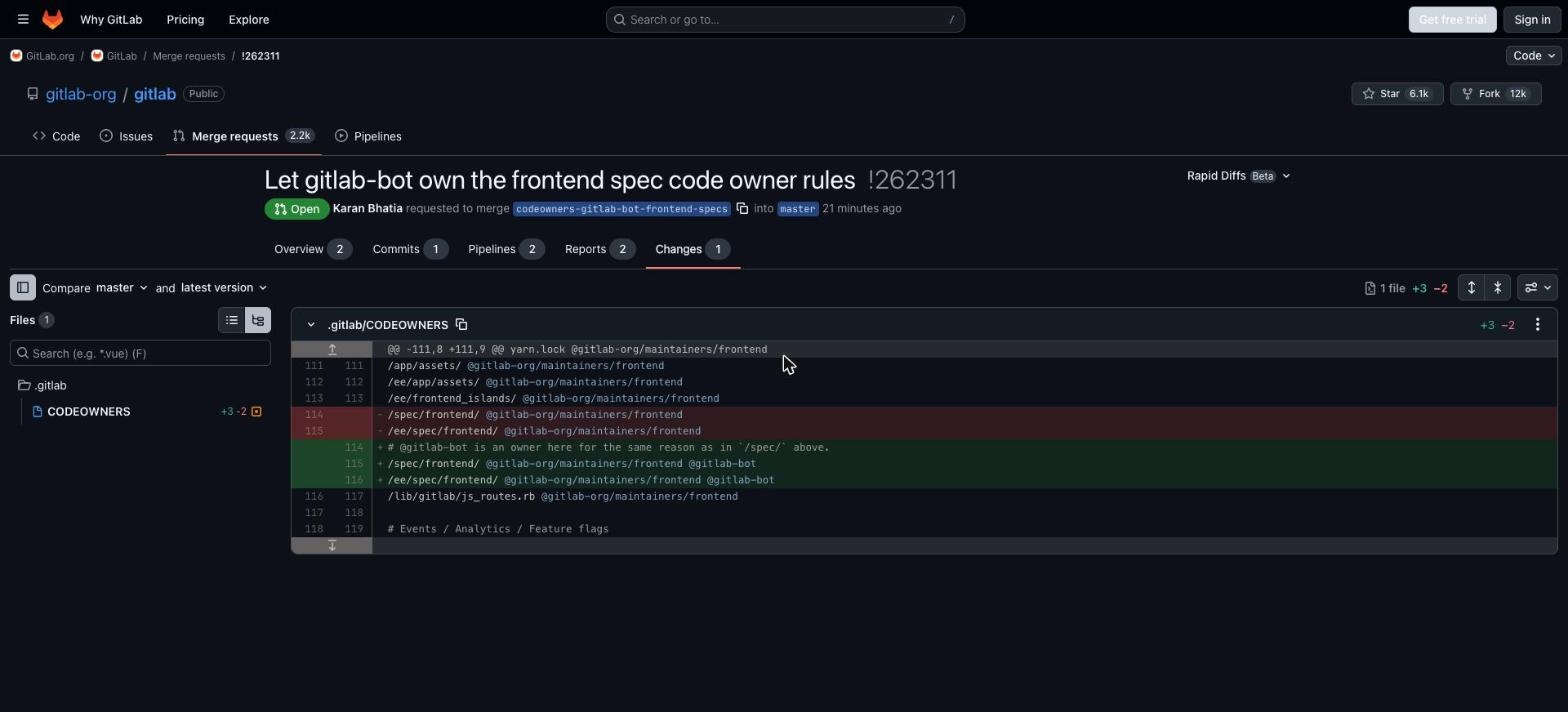
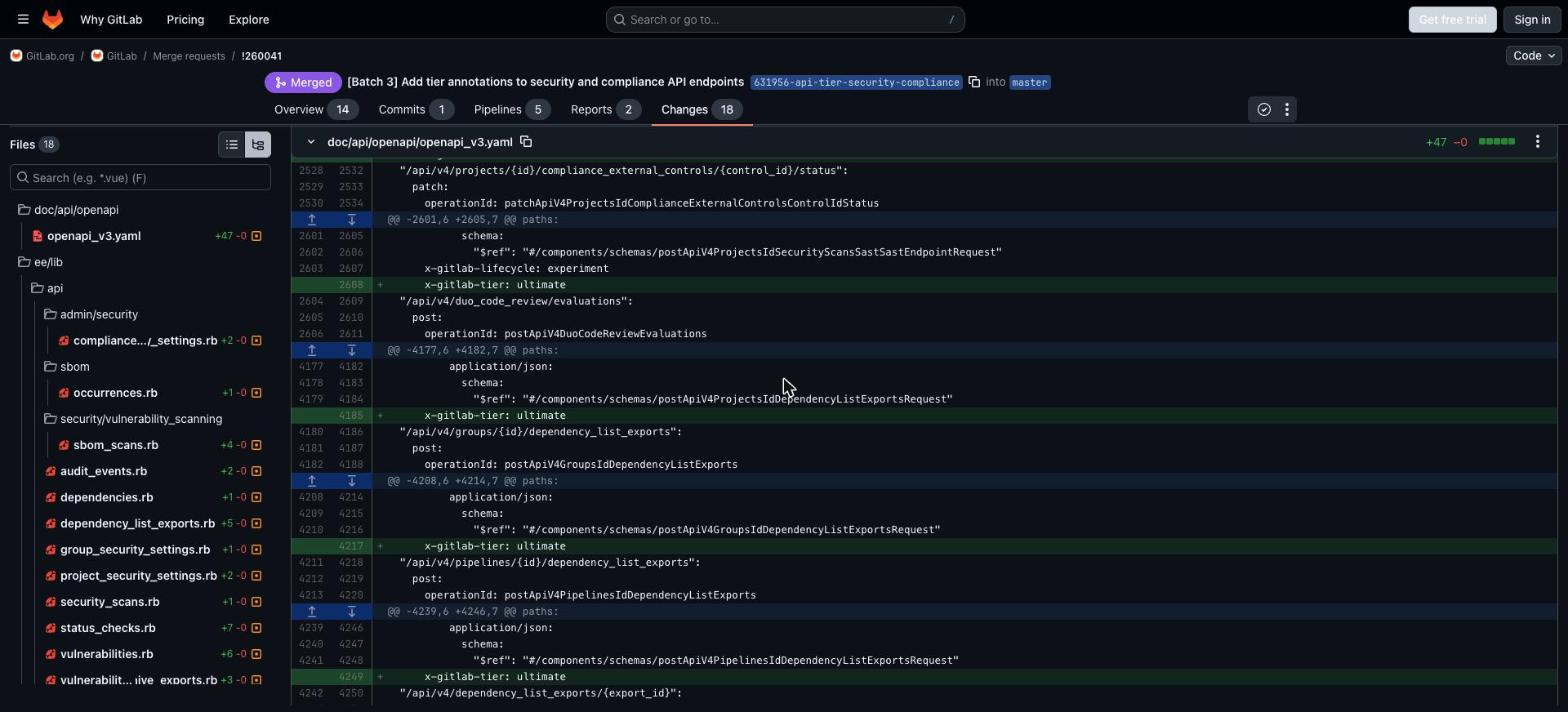
chore: LabHub release setup; diffs match github.com dark exactly
- Rename to LabHub (manifest, popup, options, package.json, README); MIT license
- CI: prettier, lint, typecheck, tests and a packaged zip on every push/PR
- Release: tag v* -> checks, version guard, zip attached to a GitHub release
- Dependabot (npm + actions), issue/PR templates, CONTRIBUTING, SECURITY, CHANGELOG
- Diffs: values read from github.com's --diffBlob-* tokens: blue hunk band with navy
  expander cell, #f851491a deletions, #f0f6fc code text, muted line numbers, 12px code,
  GitHub dark syntax colors on GitLab's Rouge classes, GitHub diffstat square colors

Changed region(s): [[0.0, 0.0618, 1.0, 0.9888], [0.7812, 0.0927, 1.0, 0.1854], [0.875, 0.3708, 1.0, 0.4635]]

diff --git a/src/features/github-theme/theme.css b/src/features/github-theme/theme.css
@@ -176,15 +176,15 @@ html.gl-dark:root {
   --bgl-diff-add: #2ea04326;
   --bgl-diff-add-num: #3fb9504d;
   --bgl-diff-add-word: #2ea04366;
-  --bgl-diff-del: #f8514926;
+  --bgl-diff-del: #f851491a;
   --bgl-diff-del-num: #f851494d;
   --bgl-diff-del-word: #f8514966;
   --bgl-counter-bg: #2f3742;
   --bgl-success-fg: #3fb950;
   --bgl-danger-fg: #f85149;
-  --bgl-diffstat-add: #2ea043;
+  --bgl-diffstat-add: #238636;
   --bgl-diffstat-del: #da3633;
-  --bgl-diffstat-neutral: #3d444d;
+  --bgl-diffstat-neutral: #656c7633;
 }
 
 /* ---- Layer 2: semantic roles -------------------------------------------------------------- */
@@ -580,4 +580,112 @@ html:root .rd-stats-added {
 }
 html:root .rd-stats-removed {
   color: var(--bgl-danger-fg);
+}
+
+/* ---- Diffs, matched to github.com's dark diff (values read from its --diffBlob-* tokens) ---- */
+
+html.gl-dark:root {
+  --bgl-diff-hunk-bg: #388bfd1a;
+  --bgl-diff-hunk-fg: #9198a1;
+  --bgl-diff-hunk-num-bg: #0c2d6b;
+}
+html:root {
+  --bgl-diff-hunk-bg: #ddf4ff;
+  --bgl-diff-hunk-fg: #59636e;
+  --bgl-diff-hunk-num-bg: #b6e3ff;
+}
+
+/* GitHub's 12px / 20px code, primary-colored text, muted line numbers. */
+html:root .rd-text-view-root,
+html:root .diff-content .diff-table {
+  font-size: 12px;
+}
+html:root .rd-line-content,
+html:root .diff-content .line_content {
+  color: var(--bgl-fg);
+}
+html:root .rd-line-number,
+html:root .diff-content .diff-line-num {
+  color: var(--bgl-fg-muted);
+}
+html:root .rd-line-number[data-change],
+html:root .diff-content .diff-line-num.new,
+html:root .diff-content .diff-line-num.old {
+  color: var(--bgl-fg);
+}
+
+/* Hunk headers ("@@ -36,6 +36,14 @@"): GitHub's blue band with a navy expander cell. */
+html:root tr.rd-hunk-header {
+  background-color: var(--bgl-diff-hunk-bg);
+  color: var(--bgl-diff-hunk-fg);
+}
+html:root tr.rd-hunk-header > .rd-hunk-header-content {
+  background-color: transparent;
+  color: var(--bgl-diff-hunk-fg);
+}
+html:root tr.rd-hunk-header > .rd-hunk-header-buttons {
+  background-color: var(--bgl-diff-hunk-num-bg);
+  color: var(--bgl-fg);
+}
+html:root tr.rd-hunk-header .rd-expand-lines-button {
+  background-color: transparent;
+  color: var(--bgl-fg-muted);
+}
+html:root tr.rd-hunk-header .rd-expand-lines-button:hover {
+  background-color: #1f6feb;
+  color: #ffffff;
+}
+html:root .diff-content .line_holder.match .line_content {
+  background-color: var(--bgl-diff-hunk-bg);
+  color: var(--bgl-diff-hunk-fg);
+}
+html:root .diff-content .line_holder.match .diff-line-num {
+  background-color: var(--bgl-diff-hunk-num-bg);
+}
+
+/* Syntax colors: GitHub dark ("prettylights") mapped onto GitLab's Rouge token classes. */
+html.gl-dark:root body .code-syntax-highlight-theme,
+html.gl-dark:root body .code.dark {
+  color: #f0f6fc;
+}
+html.gl-dark:root
+  body
+  :is(.code-syntax-highlight-theme, .code.dark)
+  :is(.c, .ch, .cd, .cm, .cpf, .c1, .cs, .cp) {
+  color: #9198a1;
+  font-style: normal;
+}
+html.gl-dark:root
+  body
+  :is(.code-syntax-highlight-theme, .code.dark)
+  :is(.k, .kd, .kn, .kp, .kr, .kv, .kt, .o, .ow) {
+  color: #ff7b72;
+  font-weight: normal;
+}
+html.gl-dark:root
+  body
+  :is(.code-syntax-highlight-theme, .code.dark)
+  :is(.s, .s1, .s2, .sa, .sb, .sc, .sd, .se, .sh, .si, .sx, .sr, .dl) {
+  color: #a5d6ff;
+}
+html.gl-dark:root
+  body
+  :is(.code-syntax-highlight-theme, .code.dark)
+  :is(.kc, .m, .mb, .mf, .mh, .mi, .mo, .il, .ss, .na, .no, .bp) {
+  color: #79c0ff;
+}
+html.gl-dark:root body :is(.code-syntax-highlight-theme, .code.dark) :is(.nf, .fm, .nd) {
+  color: #d2a8ff;
+}
+html.gl-dark:root
+  body
+  :is(.code-syntax-highlight-theme, .code.dark)
+  :is(.nc, .nn, .nb, .ne, .nv, .vc, .vg, .vi, .vm) {
+  color: #ffa657;
+}
+html.gl-dark:root body :is(.code-syntax-highlight-theme, .code.dark) :is(.nt) {
+  color: #7ee787;
+}
+html.gl-dark:root body :is(.code-syntax-highlight-theme, .code.dark) :is(.p, .n, .nx, .w) {
+  color: #f0f6fc;
 }

diff --git a/wxt.config.ts b/wxt.config.ts
@@ -7,13 +7,14 @@ export default defineConfig({
   // loaded it unpacked, instead of launching a separate throwaway browser.
   webExt: { disabled: true },
   manifest: {
-    name: 'Better GitLab',
+    name: 'LabHub',
+    homepage_url: 'https://github.com/myselfshravan/LabHub',
     description:
-      'Keeps GitLab pages fresh (no more stale MR/pipeline status) and adds GitHub-like UX.',
+      'GitLab that looks and feels like GitHub, and never shows you stale MR or pipeline status.',
     // `scripting` + optional hosts let users enable self-hosted GitLab instances at runtime.
     // `notifications`: CI finished / MR merged while you're on another tab.
     permissions: ['storage', 'scripting', 'activeTab', 'notifications'],
     optional_host_permissions: ['https://*/*', 'http://*/*'],
-    action: { default_title: 'Better GitLab' },
+    action: { default_title: 'LabHub' },
   },
 });

diff --git a/src/entrypoints/options/main.ts b/src/entrypoints/options/main.ts
@@ -201,7 +201,7 @@ function logsCard(s: Settings) {
     });
     const a = h('a', {
       href: URL.createObjectURL(blob),
-      download: `better-gitlab-logs-${Date.now()}.json`,
+      download: `labhub-logs-${Date.now()}.json`,
     });
     a.click();
     URL.revokeObjectURL(a.href);
@@ -240,7 +240,7 @@ function logsCard(s: Settings) {
 async function render() {
   const s = await getSettings();
   app.replaceChildren(
-    h('h1', {}, 'Better GitLab'),
+    h('h1', {}, 'LabHub'),
     h(
       'section',
       { class: 'card' },

diff --git a/src/entrypoints/popup/main.ts b/src/entrypoints/popup/main.ts
@@ -58,7 +58,7 @@ async function render() {
     h(
       'header',
       { class: 'row' },
-      h('h1', {}, 'Better GitLab'),
+      h('h1', {}, 'LabHub'),
       h('input', {
         type: 'checkbox',
         class: 'switch',

diff --git a/src/entrypoints/options/index.html b/src/entrypoints/options/index.html
@@ -2,7 +2,7 @@
 <html lang="en">
   <head>
     <meta charset="UTF-8" />
-    <title>Better GitLab settings</title>
+    <title>LabHub settings</title>
     <meta name="manifest.open_in_tab" content="true" />
   </head>
   <body>

diff --git a/src/entrypoints/popup/index.html b/src/entrypoints/popup/index.html
@@ -2,7 +2,7 @@
 <html lang="en">
   <head>
     <meta charset="UTF-8" />
-    <title>Better GitLab</title>
+    <title>LabHub</title>
   </head>
   <body>
     <div id="app"></div>

diff --git a/README.md b/README.md
@@ -1,20 +1,45 @@
-# Better GitLab
+<p align="center">
+  <img src="public/icon/128.png" width="80" alt="LabHub icon">
+</p>
 
-A personal Chrome extension that fixes GitLab's biggest annoyance — **stale pages** — and,
-step by step, makes GitLab feel more like GitHub.
+<h1 align="center">LabHub</h1>
+
+<p align="center">
+  <b>GitLab that looks and feels like GitHub, and never shows you stale status.</b><br>
+  A Chrome extension for gitlab.com and self-hosted GitLab.
+</p>
+
+<p align="center">
+  <a href="https://github.com/myselfshravan/LabHub/actions/workflows/ci.yml"><img src="https://github.com/myselfshravan/LabHub/actions/workflows/ci.yml/badge.svg" alt="CI"></a>
+  <a href="https://github.com/myselfshravan/LabHub/releases/latest"><img src="https://img.shields.io/github/v/release/myselfshravan/LabHub?display_name=tag" alt="Latest release"></a>
+  <a href="LICENSE"><img src="https://img.shields.io/github/license/myselfshravan/LabHub" alt="MIT license"></a>
+</p>
 
 | MR list                                  | MR page                                  | Diff                               |
 | ---------------------------------------- | ---------------------------------------- | ---------------------------------- |
 | ![MR list](docs/screenshots/mr-list.jpg) | ![MR page](docs/screenshots/mr-page.jpg) | ![Diff](docs/screenshots/diff.jpg) |
 
-<sub>gitlab.com, dark mode, with the extension on.</sub>
+<sub>gitlab.com in dark mode with LabHub on.</sub>
+
+> [!NOTE]
+> **Built end to end in a single Claude Code session.** Every line of code, the tests, the
+> CI, the screenshots and this README came out of one conversation with Claude.
+
+## Install
+
+1. Download `labhub-<version>-chrome.zip` from the [latest release](https://github.com/myselfshravan/LabHub/releases/latest) and unzip it.
+2. Open `chrome://extensions`, turn on **Developer mode**, click **Load unpacked**, pick the unzipped folder.
+3. Open any GitLab page. Use the toolbar icon to toggle features; there's a master on/off switch.
+
+Self-hosted GitLab: open your instance, click the LabHub icon, then **Enable on &lt;host&gt;**.
+Chrome asks for permission for that one origin only.
 
 ## What it does
 
 ### Keep pages fresh (`freshness`)
 
 GitLab renders most of a page once; come back to a tab later and the MR status, pipeline,
-approvals or list you're looking at may be out of date. Better GitLab takes a cheap API
+approvals or list you're looking at may be out of date. LabHub takes a cheap API
 "fingerprint" of what the page shows and re-checks it:
 
 | Trigger                                         | What happens on a change                                                              |
@@ -43,7 +68,7 @@ minute while the tab is in the background, so you can watch a pipeline from anot
 
 ### GitHub look (`github-theme`)
 
-GitLab, colored and shaped like GitHub, in light and dark mode:
+GitLab, colored and shaped like GitHub (tuned for dark mode, works in light):
 
 - GitLab's whole color palette swapped for GitHub's Primer palette, so every GitLab component
   (including ones not styled by hand) comes out in GitHub colors
@@ -64,7 +89,7 @@ GitLab, colored and shaped like GitHub, in light and dark mode:
 
 Tabs lead with the repo name instead of burying it at the end:
 
-| GitLab's title                                                     | Better GitLab              |
+| GitLab's title                                                     | LabHub                     |
 | ------------------------------------------------------------------ | -------------------------- |
 | Merge requests · Acme / experiments / agent-os-ui · GitLab         | agent-os-ui · MRs          |
 | Fix login (!12) · Merge requests · Acme / … / agent-os-ui · GitLab | agent-os-ui !12 Fix login  |
@@ -84,7 +109,7 @@ finder, `y` permalink, `?` shortcut list, `[`/`]` previous/next file and the **V
 Every feature can be toggled from the toolbar popup, and there's a master on/off switch.
 Settings → intervals, auto-reload vs banner-only, self-hosted instances, logs.
 
-## Install (load unpacked)
+## Build from source
 
 ```sh
 npm install
@@ -97,10 +122,7 @@ select `.output/chrome-mv3`. After a rebuild, hit the reload icon on the extensi
 For development, `npm run dev` builds `.output/chrome-mv3-dev`; load that folder instead and it
 hot-reloads on every change (keep `npm run dev` running). Don't load both at once.
 
-### Self-hosted GitLab
-
-Open your instance, click the extension icon → **Enable on <host>** (or add it in Settings).
-Chrome asks for permission for that origin only; the content script is then registered for it.
+Releases are cut by pushing a `v*` tag: CI builds the zip and attaches it to a GitHub release.
 
 ## Development
 
@@ -130,3 +152,12 @@ logging** is on). All levels are buffered (last 1000) and viewable/exportable in
 
 Read-only `GET /api/v4/...` from the page's own origin with your existing session cookie —
 no tokens, nothing leaves your browser.
+
+## Privacy
+
+LabHub has no server and no analytics. It only reads from the GitLab instance you are already
+signed in to, with your own browser session, and stores its settings in Chrome sync storage.
+
+## License
+
+[MIT](LICENSE)

diff --git a/CHANGELOG.md b/CHANGELOG.md
@@ -1,0 +1,14 @@
+# Changelog
+
+## 0.1.0
+
+First release.
+
+- **Freshness:** detects stale MR, issue, list and to-do pages via API fingerprints; reloads
+  on return when nothing would be lost, otherwise shows a banner. CI status in tab titles,
+  desktop notifications when CI finishes or an MR is merged/approved, idle-aware polling.
+- **GitHub look:** GitLab's palette replaced with GitHub's Primer colors; GitHub buttons,
+  tabs, counters, labels, lists, state pills, comment cards and diff colors.
+- **GitHub layout:** sidebar behind ☰, repo header with Code / Issues / Merge requests /
+  Pipelines tabs and counts, state icons in lists, diffstat squares.
+- **Short tab titles** led by the repo name, and **⌘K / Ctrl+K** for GitLab's search.

diff --git a/CONTRIBUTING.md b/CONTRIBUTING.md
@@ -1,0 +1,16 @@
+# Contributing
+
+Thanks for helping make GitLab feel like GitHub.
+
+```sh
+npm install
+npm run dev     # builds .output/chrome-mv3-dev; load it unpacked, it hot-reloads
+npm run check   # lint + typecheck + tests (what CI runs)
+```
+
+- Every feature lives in `src/features/<id>/` and is registered in `src/features/index.ts`.
+  It must clean up after itself (the registry tears features down on navigation and toggle-off).
+- GitLab selectors go in `src/core/selectors.ts` or next to the feature that owns them; prefer
+  `data-testid` and GitLab's design tokens (`--gl-*`) over layout classes.
+- Visual changes: attach a before/after screenshot to the PR.
+- Keep it read-only: LabHub only issues `GET` requests to GitLab.

diff --git a/SECURITY.md b/SECURITY.md
@@ -1,0 +1,8 @@
+# Security
+
+Please report vulnerabilities privately through
+[GitHub security advisories](https://github.com/myselfshravan/LabHub/security/advisories/new)
+rather than a public issue. You'll get a reply within a few days.
+
+LabHub runs only on GitLab pages you enable, makes read-only requests to that GitLab instance
+with your existing session, and sends nothing anywhere else.

diff --git a/.github/pull_request_template.md b/.github/pull_request_template.md
@@ -1,0 +1,7 @@
+## What and why
+
+## How I checked it
+
+- [ ] `npm run check` passes
+- [ ] Tried it on a real GitLab page (which one?)
+- [ ] Screenshot for visual changes
